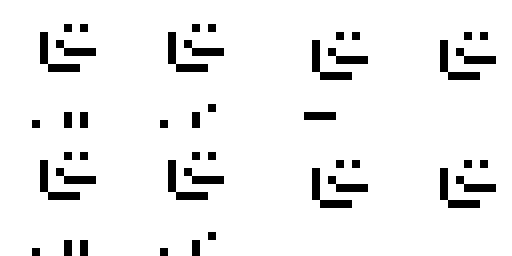
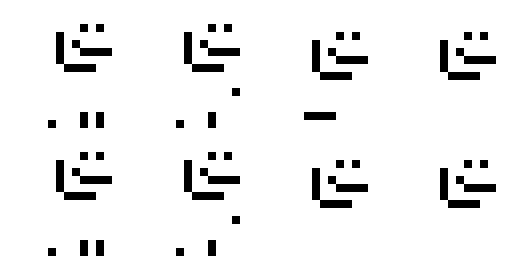
add humans

diff --git a/src/store/masza/index.js b/src/store/masza/index.js
@@ -5,6 +5,8 @@ function setAnimation(state) {
   // Which animation type to use
   if(state.jumping) {
     state.animation.type = "jumping";
+  } else if(state.keys.action) {
+    state.animation.type = "giving-paw";
   } else if(state.keys.left || state.keys.right) {
     state.animation.type = "walking";
   } else {
@@ -68,7 +70,8 @@ export default {
     keys: {
       left: false,
       right: false,
-      jump: false
+      jump: false,
+      action: false
     }
   },
   getters: {
@@ -94,6 +97,9 @@ export default {
         case 39: // Right
           state.keys.right = true;
           break;
+        case 69: // e
+          state.keys.action = true;
+          break;
       }
     },
     keyUp(state, key) {
@@ -106,6 +112,9 @@ export default {
           break;
         case 39: // Right
           state.keys.right = false;
+          break;
+        case 69: // e
+          state.keys.action = false;
           break;
       }
     },
@@ -191,7 +200,7 @@ export default {
       commit("nextTick", rootState);
     },
     setup({ state, rootState }) {
-      state.pos.x = rootState.width/2;
+      state.pos.x = 32;
       state.pos.y = rootState.height;
     },
     collides({ getters }, other) {

diff --git a/src/components/Item.vue b/src/components/Item.vue
@@ -32,7 +32,7 @@ export default {
 .box {
   position: absolute;
   background-image: url("../assets/items.png");
-  background-size: 128px 128px;
+  background-size: 160px 160px;
   &.couch {
     background-position: 0px 0px;
   }
@@ -41,6 +41,9 @@ export default {
   }
   &.dogBed {
     background-position: -96px 0px;  
+  }
+  &.human1 {
+    background-position: -128px 0px;
   }
 
   &.tv {
@@ -56,10 +59,13 @@ export default {
   &.desk {
     background-position: -64px -64px;
   }
+  &.human2 {
+    background-position: -128px -64px;
+  }
 
 
   &.keys {
-    background-position: 0px -96px;
+    background-position: 0px -128px;
   }
 }
 </style>

diff --git a/src/store/index.js b/src/store/index.js
@@ -17,10 +17,13 @@ export default new Vuex.Store({
       new Item("tv", 64, 32, {x: 160, y: 480}),
       //new Item("ball", 32, 32, {x: 208, y: 512}),
 
-      new Item("desk", 64, 32, {x: 272, y: 512}),
-      new Item("deskTop", 64, 32, {x: 272, y: 480}, false),
+      new Item("desk", 64, 32, {x: 256, y: 512}),
+      new Item("deskTop", 64, 32, {x: 256, y: 480}, false),
 
-      new Item("keys", 128, 32, {x: 256, y: 256+16}, false),
+      new Item("human1", 32, 64, {x: 336, y: 512}, false),
+      new Item("human2", 32, 64, {x: 368, y: 512}, false),
+
+      new Item("keys", 160, 32, {x: 256, y: 256+16}, false),
     ]
   },
   mutations: {
